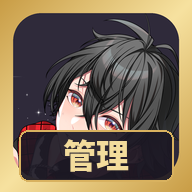
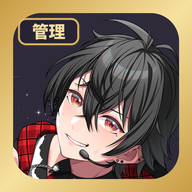
管理画面のホームアイコン：「管理」バッジを左上に移し、顔が隠れないように
Claude-Session: https://claude.ai/code/session_01PZyiTjjNdMvf2nQJ4LaN1M

Changed region(s): [[0.0938, 0.6562, 0.9062, 0.9688], [0.0938, 0.0938, 0.4375, 0.25]]

diff --git a/covers.html b/covers.html
@@ -20,14 +20,14 @@
 <meta property="og:locale" content="ja_JP">
 <meta name="twitter:card" content="summary_large_image">
 <meta name="twitter:image" content="https://ante-stage.github.io/img/og.png">
-<link rel="manifest" href="manifest.webmanifest?v=20261018s">
-<link rel="icon" href="icon-192.png?v=20261018s">
-<link rel="apple-touch-icon" href="apple-touch-icon.png?v=20261018s">
+<link rel="manifest" href="manifest.webmanifest?v=20261019a">
+<link rel="icon" href="icon-192.png?v=20261019a">
+<link rel="apple-touch-icon" href="apple-touch-icon.png?v=20261019a">
 <link rel="preconnect" href="https://fonts.googleapis.com">
 <link rel="preconnect" href="https://fonts.gstatic.com" crossorigin>
 <link href="https://fonts.googleapis.com/css2?family=Dela+Gothic+One&family=M+PLUS+Rounded+1c:wght@500;700;800&family=Cinzel+Decorative:wght@700&display=swap" rel="stylesheet">
 <script>try{if(sessionStorage.getItem('ptin')==='1')document.documentElement.classList.add('pt-in')}catch(e){}</script>
-<link rel="stylesheet" href="assets/site.css?v=20261018s">
+<link rel="stylesheet" href="assets/site.css?v=20261019a">
 </head>
 <body data-page="covers">
 
@@ -40,6 +40,6 @@
   </section>
 </div></main>
 
-<script src="assets/site.js?v=20261018s" defer></script>
+<script src="assets/site.js?v=20261019a" defer></script>
 </body>
 </html>

diff --git a/news.html b/news.html
@@ -20,14 +20,14 @@
 <meta property="og:locale" content="ja_JP">
 <meta name="twitter:card" content="summary_large_image">
 <meta name="twitter:image" content="https://ante-stage.github.io/img/og.png">
-<link rel="manifest" href="manifest.webmanifest?v=20261018s">
-<link rel="icon" href="icon-192.png?v=20261018s">
-<link rel="apple-touch-icon" href="apple-touch-icon.png?v=20261018s">
+<link rel="manifest" href="manifest.webmanifest?v=20261019a">
+<link rel="icon" href="icon-192.png?v=20261019a">
+<link rel="apple-touch-icon" href="apple-touch-icon.png?v=20261019a">
 <link rel="preconnect" href="https://fonts.googleapis.com">
 <link rel="preconnect" href="https://fonts.gstatic.com" crossorigin>
 <link href="https://fonts.googleapis.com/css2?family=Dela+Gothic+One&family=M+PLUS+Rounded+1c:wght@500;700;800&family=Cinzel+Decorative:wght@700&display=swap" rel="stylesheet">
 <script>try{if(sessionStorage.getItem('ptin')==='1')document.documentElement.classList.add('pt-in')}catch(e){}</script>
-<link rel="stylesheet" href="assets/site.css?v=20261018s">
+<link rel="stylesheet" href="assets/site.css?v=20261019a">
 </head>
 <body data-page="news">
 
@@ -56,6 +56,6 @@
   </section>
 </div></main>
 
-<script src="assets/site.js?v=20261018s" defer></script>
+<script src="assets/site.js?v=20261019a" defer></script>
 </body>
 </html>

diff --git a/index.html b/index.html
@@ -20,14 +20,14 @@
 <meta property="og:locale" content="ja_JP">
 <meta name="twitter:card" content="summary_large_image">
 <meta name="twitter:image" content="https://ante-stage.github.io/img/og.png">
-<link rel="manifest" href="manifest.webmanifest?v=20261018s">
-<link rel="icon" href="icon-192.png?v=20261018s">
-<link rel="apple-touch-icon" href="apple-touch-icon.png?v=20261018s">
+<link rel="manifest" href="manifest.webmanifest?v=20261019a">
+<link rel="icon" href="icon-192.png?v=20261019a">
+<link rel="apple-touch-icon" href="apple-touch-icon.png?v=20261019a">
 <link rel="preconnect" href="https://fonts.googleapis.com">
 <link rel="preconnect" href="https://fonts.gstatic.com" crossorigin>
 <link href="https://fonts.googleapis.com/css2?family=Dela+Gothic+One&family=M+PLUS+Rounded+1c:wght@500;700;800&family=Cinzel+Decorative:wght@700&display=swap" rel="stylesheet">
 <script>try{if(sessionStorage.getItem('ptin')==='1')document.documentElement.classList.add('pt-in')}catch(e){}</script>
-<link rel="stylesheet" href="assets/site.css?v=20261018s">
+<link rel="stylesheet" href="assets/site.css?v=20261019a">
 </head>
 <body data-page="home">
 

diff --git a/admin/index.html b/admin/index.html
@@ -5,15 +5,15 @@
 <meta charset="utf-8">
 <meta name="viewport" content="width=device-width,initial-scale=1,viewport-fit=cover">
 <meta name="robots" content="noindex,nofollow">
-<meta name="build" content="20261018s">
+<meta name="build" content="20261019a">
 <meta name="theme-color" content="#2f2a3a">
 <meta name="apple-mobile-web-app-capable" content="yes">
 <meta name="mobile-web-app-capable" content="yes">
 <meta name="apple-mobile-web-app-title" content="あんて｡管理">
 <meta name="apple-mobile-web-app-status-bar-style" content="black-translucent">
 <link rel="manifest" href="manifest.webmanifest">
-<link rel="icon" href="icon-192.png?v=2">
-<link rel="apple-touch-icon" href="apple-touch-icon.png?v=2">
+<link rel="icon" href="icon-192.png?v=3">
+<link rel="apple-touch-icon" href="apple-touch-icon.png?v=3">
 <title>HP更新ページ | あんて｡ OFFICIAL STAGE</title>
 <style>
 :root{--ink:#fff8f1;--sub:#c9baa2;--gold:#d9b25f;--gold-l:#f3dc9c;--red:#e8546b;--red-d:#b8334a;--rule:rgba(243,220,156,.22);--field:#2a2536;--panel:rgba(255,255,255,.05);--err:#ff9db0;--ok:#7fdca6;--black-d:#1c1824;

diff --git a/assets/site.js b/assets/site.js
@@ -114,7 +114,7 @@ function transitions(){
 
 /* ---------- 見出しの飾り（矢の刺さるハート） ---------- */
 var ORN='<img class="orn" src="img/logo-gold.png" alt="" width="900" height="438" loading="lazy">';
-var VER='20261018s';
+var VER='20261019a';
 function autoUpdate(){
   function chk(){try{fetch('version.json?t='+Date.now(),{cache:'no-store'}).then(function(r){return r.ok?r.json():null;}).then(function(j){
     if(!j||!j.v||j.v===VER)return;var k='verTry';if(ss(k)===j.v)return;ss(k,j.v);
